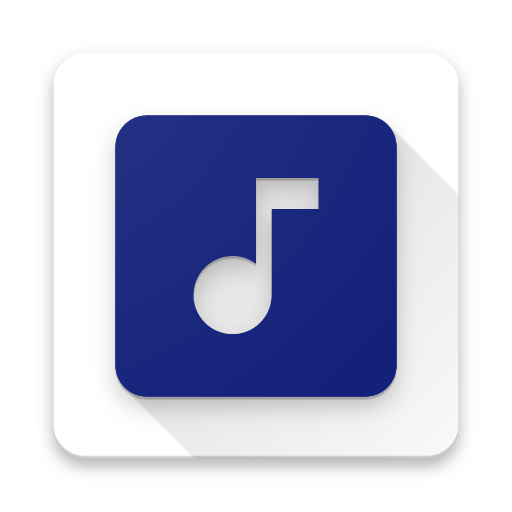
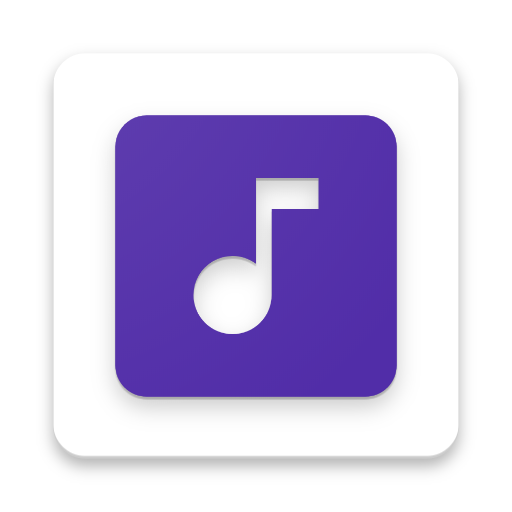
* cleanup code
+ replace launcher icons

Changed region(s): [[0.2188, 0.2188, 0.7812, 0.7812]]

diff --git a/presentation/src/main/java/com/github/anrimian/musicplayer/ui/player_screen/PlayerFragment.java b/presentation/src/main/java/com/github/anrimian/musicplayer/ui/player_screen/PlayerFragment.java
@@ -16,7 +16,6 @@ import android.support.v4.app.FragmentManager;
 import android.support.v4.content.FileProvider;
 import android.support.v4.view.GravityCompat;
 import android.support.v4.widget.DrawerLayout;
-import android.support.v7.app.ActionBar;
 import android.support.v7.app.ActionBarDrawerToggle;
 import android.support.v7.app.AppCompatActivity;
 import android.support.v7.graphics.drawable.DrawerArrowDrawable;
@@ -272,43 +271,18 @@ public class PlayerFragment extends MvpAppCompatFragment implements BackButtonLi
         MusicServiceManager.initialize();
         uiStatePreferences = Components.getAppComponent().uiStatePreferences();
 
-        toolbar.init();
-
-        AppCompatActivity activity = (AppCompatActivity) requireActivity();
-        activity.setSupportActionBar(toolbar);
-        ActionBar actionBar = activity.getSupportActionBar();
-        if (actionBar != null) {
-            actionBar.setDisplayShowHomeEnabled(true);
-            actionBar.setHomeButtonEnabled(true);
-            actionBar.setDisplayHomeAsUpEnabled(true);
-            actionBar.setHomeAsUpIndicator(R.drawable.ic_menu);
-        }
+        toolbar.initializeViews();
+        toolbar.setupWithActivity((AppCompatActivity) requireActivity());
 
         drawerLockStateProcessor = new DrawerLockStateProcessor(drawer);
         drawerLockStateProcessor.setupWithFragmentManager(getChildFragmentManager());
         toolbar.setSearchModeListener(drawerLockStateProcessor::onSearchModeChanged);
 
-        navigationView.setNavigationItemSelectedListener(item -> {
-            int itemId = item.getItemId();
-            if (selectedDrawerItemId != itemId) {
-                selectedDrawerItemId = itemId;
-                itemIdToStart = itemId;
-                clearFragment();
-            }
-            drawer.closeDrawer(Gravity.START);
-            return true;
-        });
-
+        navigationView.setNavigationItemSelectedListener(this::onNavigationItemSelected);
         navigationView.inflateHeaderView(R.layout.partial_drawer_header);
 
         drawerToggle = new ActionBarDrawerToggle(requireActivity(), drawer, R.string.open_drawer, R.string.close_drawer);
         DrawerArrowDrawable drawerArrowDrawable = createDrawerArrowDrawable();
-
-        ActionMenuUtil.setupMenu(actionMenuView.getContext(),
-                actionMenuView,
-                R.menu.play_queue_menu,
-                this::onPlayQueueMenuItemClicked);
-
         drawerToggle.setDrawerArrowDrawable(drawerArrowDrawable);
 
         drawer.addDrawerListener(new DrawerLayout.SimpleDrawerListener() {
@@ -321,6 +295,11 @@ public class PlayerFragment extends MvpAppCompatFragment implements BackButtonLi
                 }
             }
         });
+
+        ActionMenuUtil.setupMenu(actionMenuView.getContext(),
+                actionMenuView,
+                R.menu.play_queue_menu,
+                this::onPlayQueueMenuItemClicked);
 
         DelegateManager delegateManager = new DelegateManager();
         delegateManager
@@ -782,5 +761,16 @@ public class PlayerFragment extends MvpAppCompatFragment implements BackButtonLi
         DrawerArrowDrawable drawerArrowDrawable = new DrawerArrowDrawable(requireActivity());
         drawerArrowDrawable.setColor(getColorFromAttr(requireActivity(), android.R.attr.textColorPrimaryInverse));
         return drawerArrowDrawable;
+    }
+
+    private boolean onNavigationItemSelected(MenuItem item) {
+        int itemId = item.getItemId();
+        if (selectedDrawerItemId != itemId) {
+            selectedDrawerItemId = itemId;
+            itemIdToStart = itemId;
+            clearFragment();
+        }
+        drawer.closeDrawer(Gravity.START);
+        return true;
     }
 }

diff --git a/presentation/src/main/java/com/github/anrimian/musicplayer/ui/common/toolbar/AdvancedToolbar.java b/presentation/src/main/java/com/github/anrimian/musicplayer/ui/common/toolbar/AdvancedToolbar.java
@@ -6,6 +6,8 @@ import android.os.Bundle;
 import android.os.Parcelable;
 import android.support.annotation.Nullable;
 import android.support.v4.app.FragmentManager;
+import android.support.v7.app.ActionBar;
+import android.support.v7.app.AppCompatActivity;
 import android.support.v7.graphics.drawable.DrawerArrowDrawable;
 import android.support.v7.widget.ActionMenuView;
 import android.support.v7.widget.Toolbar;
@@ -58,7 +60,7 @@ public class AdvancedToolbar extends Toolbar {
         super(context, attrs, defStyleAttr);
     }
 
-    public void init() {
+    public void initializeViews() {
         tvTitle = findViewById(R.id.tv_title);
         tvSubtitle = findViewById(R.id.tv_subtitle);
         titleContainer = findViewById(R.id.title_container);
@@ -68,7 +70,18 @@ public class AdvancedToolbar extends Toolbar {
         etSearch.setOnEditorActionListener(this::onSearchTextViewAction);
         etSearch.setVisibility(INVISIBLE);
         actionIcon.setVisibility(GONE);
-        setTitle("");//setSupportActionBar() set app title to null title in action bar
+    }
+
+    public void setupWithActivity(AppCompatActivity activity) {
+        setTitle("");//replace null to prevent auto title setting from action bar
+        activity.setSupportActionBar(this);
+        ActionBar actionBar = activity.getSupportActionBar();
+        if (actionBar != null) {
+            actionBar.setDisplayShowHomeEnabled(true);
+            actionBar.setHomeButtonEnabled(true);
+            actionBar.setDisplayHomeAsUpEnabled(true);
+            actionBar.setHomeAsUpIndicator(R.drawable.ic_menu);
+        }
     }
 
     public void setupWithFragmentManager(FragmentManager fragmentManager,

diff --git a/presentation/src/main/java/com/github/anrimian/musicplayer/di/Components.java b/presentation/src/main/java/com/github/anrimian/musicplayer/di/Components.java
@@ -14,7 +14,6 @@ import com.github.anrimian.musicplayer.di.app.library.files.LibraryFilesComponen
 import com.github.anrimian.musicplayer.di.app.library.files.LibraryFilesModule;
 import com.github.anrimian.musicplayer.di.app.play_list.PlayListComponent;
 import com.github.anrimian.musicplayer.di.app.play_list.PlayListModule;
-import com.github.anrimian.musicplayer.domain.models.playlist.PlayList;
 
 import javax.annotation.Nullable;
 
@@ -36,7 +35,7 @@ public class Components {
 
     private static Components getInstance() {
         if (instance == null) {
-            throw new IllegalStateException("components must be init first");
+            throw new IllegalStateException("components must be initializeViews first");
         }
         return instance;
     }
